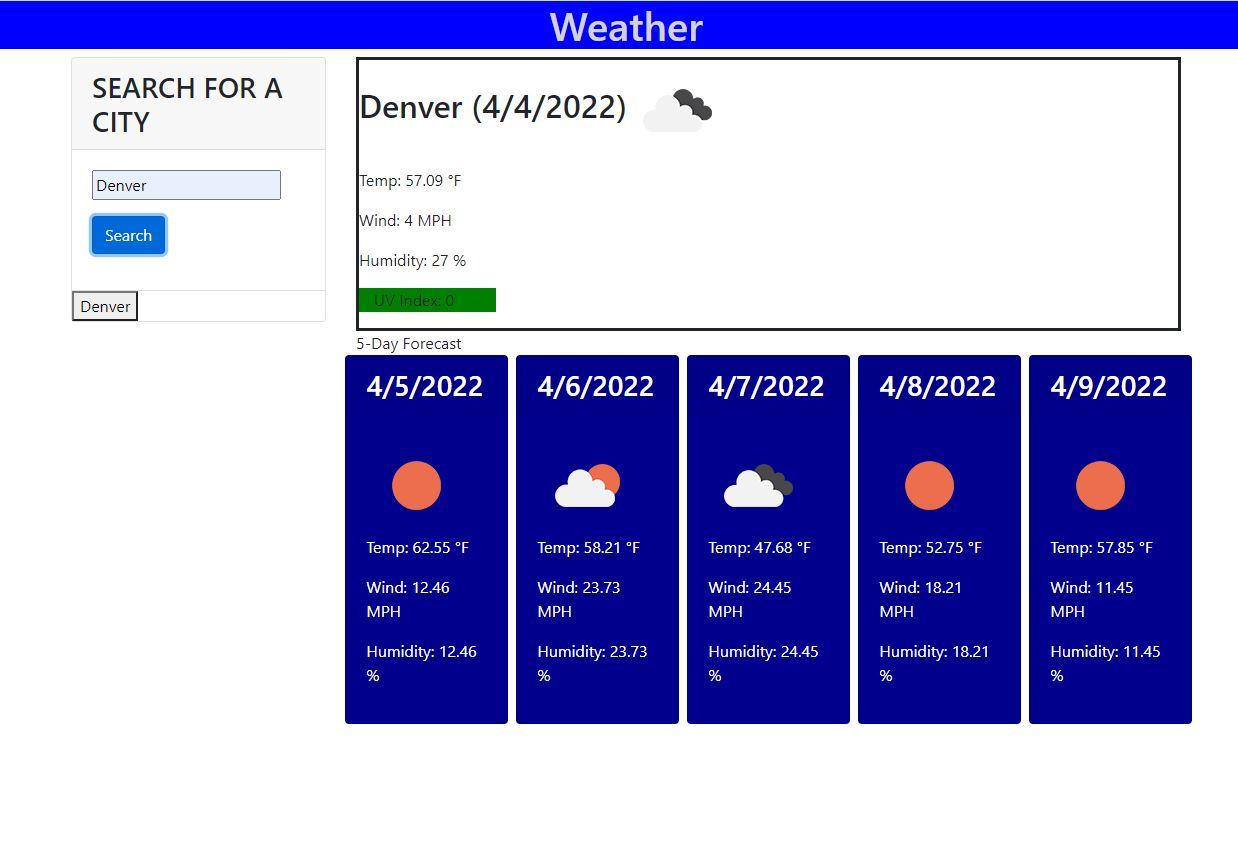
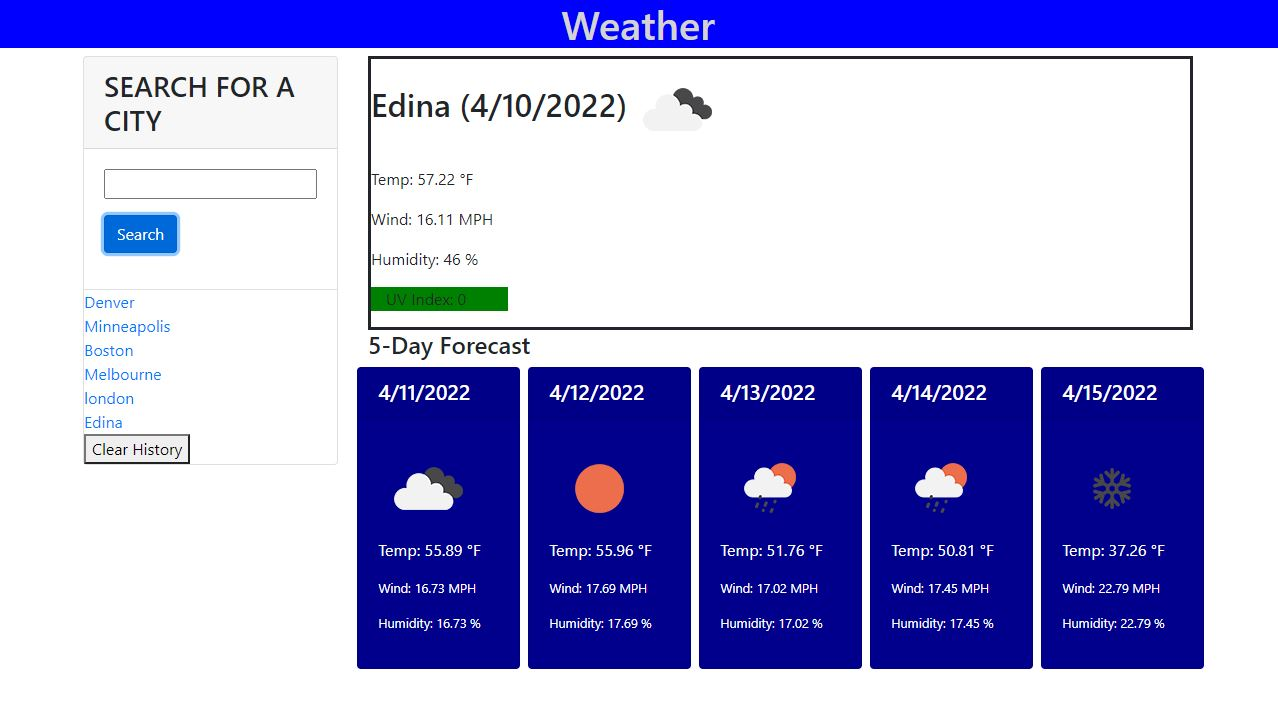
updated ReadMe file, added a new image of updated webpage to ReadMe

Changed region(s): [[0.0, 0.0, 1.0, 0.9646], [0.0614, 0.4045, 0.1535, 0.6846]]

diff --git a/README.md b/README.md
@@ -1,8 +1,10 @@
 Weather Dashboard
 
-This webpage allows for the user to search a city by name, and returns the weather for that city.  The data returned includes current weather, and weather forecast for the next 5 days.  The site uses a third-party API to access weather data by location.  The site also saves searches and should allow the user to click on a previous search term to pull up the weather for that location(*note: Local storage has not been updated to save search history upon refreshing page)
+This webpage allows for the user to search a city by name, and returns the weather for that city.  The data returned includes current weather, and weather forecast for the next 5 days.  The site uses a third-party API to access weather data by location.  The site also saves searches, creating a history list of previous searches that utilizes local storage to allow for the history to regenerate every time the webpage is loaded.  The history list is comprised of link elements that allow the user to click on the city name, which in return will load the weather data for that city.  
 
-The site should follow the following conditions:
+The site has features built in to account for a user trying to search for nothing (i.e. blank city input), as well as for a user typing in an incorrect city spelling or a city name that does not exist.  
+
+The site follows the following conditions:
 GIVEN a weather dashboard with form inputs
 WHEN I search for a city
 THEN I am presented with current and future conditions for that city and that city is added to the search history
